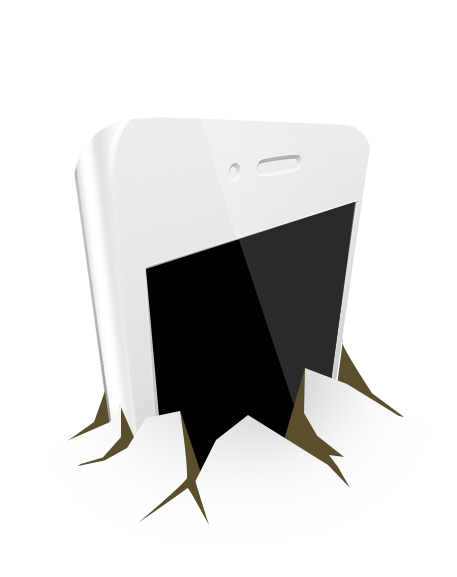
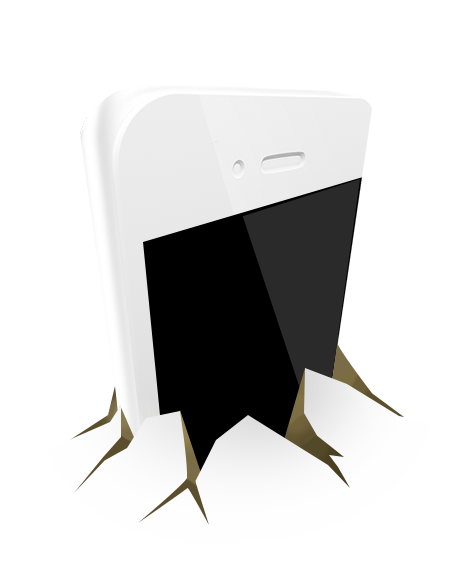
Add frame transitions for intro rocks

diff --git a/src/styles/anim/tools.scss b/src/styles/anim/tools.scss
@@ -15,6 +15,18 @@
     100% { opacity: 1; }
 }
 
+@include keyframes(slide-in) {
+    0% {
+        top: -150px;
+        opacity: 0;
+    }
+
+    100% {
+        opacity: 1;
+        top: -40px;
+    }
+}
+
 @mixin trigger-show($delay) {
     @include animation(0s ease-in #{$delay}ms 1 normal both running fade-in);
 }
@@ -23,6 +35,9 @@
     @include animation(1s ease-in-out #{$delay}ms 1 normal both running fade-in);
 }
 
+@mixin trigger-slide-in($delay) {
+    @include animation(0.8s ease-in-out #{$delay}ms 1 normal both running slide-in);
+}
 
 
 @mixin nav-glow-anim() {
@@ -50,12 +65,26 @@
     background: url(/images/intro/#{$f}.png);
 }
 
+@mixin rock($f, $idelay, $offset) {
+    background: url(/images/intro/m_rock_#{$f}.png);
+    @include trigger-fade-in($idelay + $offset);
+}
+
+@mixin rocks($delay) {
+    .rock.r1 { @include rock(1, $delay, 0); }
+    .rock.r2 { @include rock(2, $delay, 100); }
+    .rock.r3 { @include rock(3, $delay, 250); }
+    .rock.r4 { @include rock(4, $delay, 400); }
+    .rock.r5 { @include rock(5, $delay, 550); }
+}
+
+
 @include keyframes(frame-in) {
     0% {
         opacity: 0;
     }
 
-    40% {
+    30% {
         opacity: 1;
     }
 
@@ -76,16 +105,17 @@
 
 @mixin animate-all-frames($pad) {
     @include animate-frame(f1, $pad, 100, 100);
-    @include animate-frame(f2, $pad, 200, 100);
-    @include animate-frame(f3, $pad, 300, 100);
-    @include animate-frame(f4, $pad, 400, 100);
-    @include animate-frame(f5, $pad, 500, 100);
-    @include animate-frame(f6, $pad, 600, 80);
-    @include animate-frame(f7, $pad, 700, 50);
-    @include animate-frame(f8, $pad, 750, 50);
-    @include animate-frame(f9, $pad, 850, 100);
+    @include animate-frame(f2, $pad, 150, 50);
+    @include animate-frame(f3, $pad, 200, 50);
+    @include animate-frame(f4, $pad, 250, 50);
+    @include animate-frame(f5, $pad, 300, 50);
+    @include animate-frame(f6, $pad, 350, 50);
+    @include animate-frame(f7, $pad, 400, 50);
+    @include animate-frame(f8, $pad, 450, 50);
+    @include animate-frame(f9, $pad, 500, 50);
+    @include animate-frame(f10, $pad, 550, 100);
 
-    .f9 {
-        @include trigger-show($pad + 800);
+    .f10 {
+        @include trigger-show($pad + 580);
     }
 }

diff --git a/src/styles/anim/frames.scss b/src/styles/anim/frames.scss
@@ -1,29 +1,34 @@
 @import '../colors';
 
-
-
 .phone-base {
     position: relative;
     @include animate-all-frames(100);
-    .rocks {
-        opacity: 0;
-        background: url('/images/intro/m_rocks.png');
-        background-repeat: no-repeat;
-        width: 100%;
-        height: 100%;
-        position: absolute;
-        z-index: 10;
-    }
+    @include rocks(700);
 }
 
-.phone-base .rocks { @include trigger-fade-in(700); }
-.first-load .phone-base .rocks { @include trigger-fade-in(1600); }
+.mobile .text {
+    /* @include trigger-fade-in(700); */
+    @include trigger-slide-in(250);
+}
+.first-load .mobile .text {
+    /* @include trigger-fade-in(1500); */
+    @include trigger-slide-in(1000);
+}
 
 .first-load .phone-base {
     position: relative;
     @include animate-all-frames(1000);
+    @include rocks(1600);
 }
 
+.phone-base .rock {
+    position: absolute;
+    top: 0;
+    left: 0;
+    width: 100%;
+    height: 100%;
+    opacity: 0;
+}
 
 .phone-base .frame {
     position: absolute;
@@ -42,4 +47,5 @@
     &.f7 { @include m(m_7); }
     &.f8 { @include m(m_8); }
     &.f9 { @include m(m_9); }
+    &.f10 { @include m(m_10); }
 }

diff --git a/src/views/Home/HomeView.js b/src/views/Home/HomeView.js
@@ -21,7 +21,12 @@ class HomeView extends React.Component {
                             <div className='frame f7'/>
                             <div className='frame f8'/>
                             <div className='frame f9'/>
-                            <div className='rocks'/>
+                            <div className='frame f10'/>
+                            <div className='rock r1'/>
+                            <div className='rock r2'/>
+                            <div className='rock r3'/>
+                            <div className='rock r4'/>
+                            <div className='rock r5'/>
                         </div>
                     </div>
                 </div>

diff --git a/src/styles/pages/hello.scss b/src/styles/pages/hello.scss
@@ -19,6 +19,7 @@
         z-index: 3;
         left: -20px;
         top: -40px;
+        opacity:0;
     }
 
     .ground {
